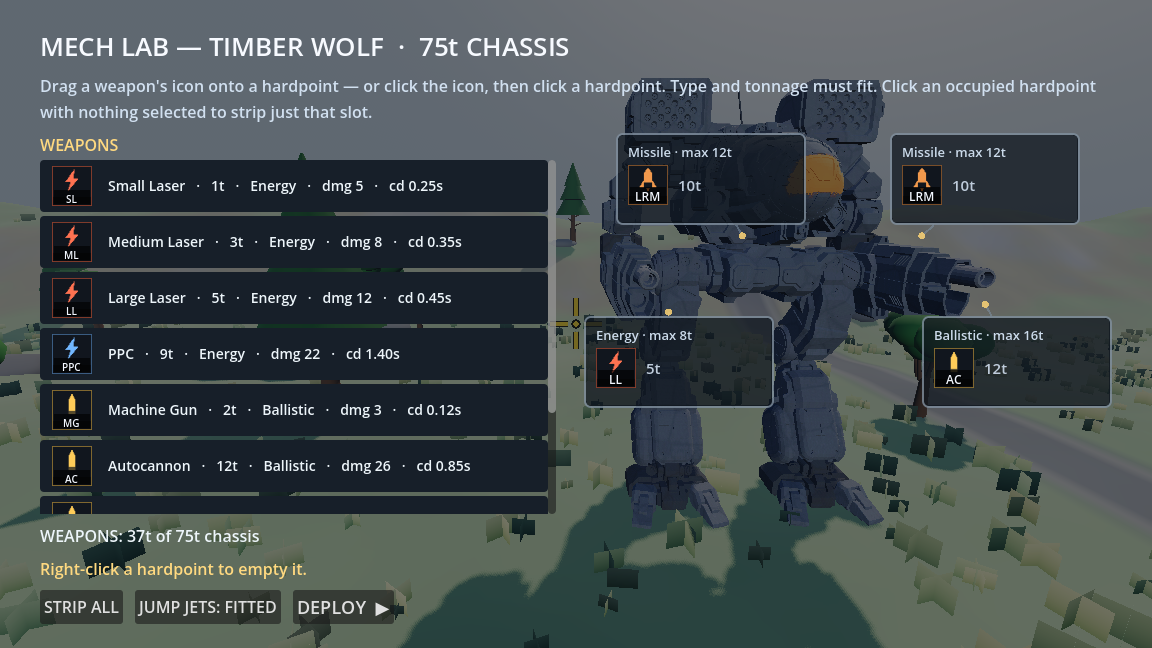
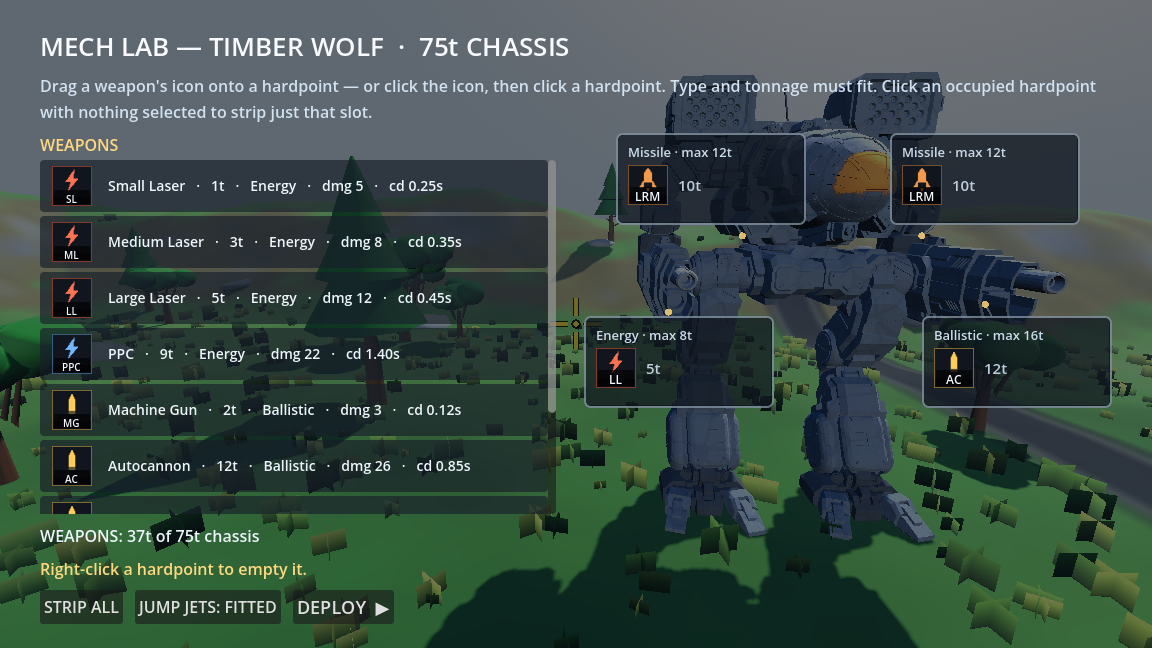
lab: mech further right + semi-transparent weapon list (owner)
Showroom pan 0.38 -> 0.46 rad, and the catalog row backdrop drops to 0.66 alpha, matching the translucent slot panels — the scene reads through the whole lab now. Verified in a captured frame (proof/lab.png).

diff --git a/godot/MechDuel.cs b/godot/MechDuel.cs
@@ -4535,7 +4535,7 @@ public partial class MechDuel : Node3D
             var viewDir = fwd.Rotated(Vector3.Up, 2.72f + sway); // mostly in front of the mech, slightly to its side
             _cam.GlobalPosition = center + viewDir * 14.5f + Vector3.Up * 3.4f;
             _cam.LookAt(center, Vector3.Up);
-            _cam.RotateY(0.38f); // pan in camera space: mech into the paperdoll area, centered under its slot panels (owner)
+            _cam.RotateY(0.46f); // pan in camera space: mech right, centered under its slot panels (owner, adjusted twice at his word)
             _labLight.GlobalRotation = _cam.GlobalRotation;
             return;
         }

diff --git a/godot/MechLab.cs b/godot/MechLab.cs
@@ -324,7 +324,7 @@ public partial class MechLab : Control
                 b.SetCornerRadiusAll(4);
                 return b;
             }
-            rowPanel.AddThemeStyleboxOverride("panel", RowBox(new Color(0.09f, 0.12f, 0.16f, 1f)));
+            rowPanel.AddThemeStyleboxOverride("panel", RowBox(new Color(0.09f, 0.12f, 0.16f, 0.66f))); // semi-transparent (owner): the scene shows through the weapon list
             var hb = new HBoxContainer();
             hb.AddThemeConstantOverride("separation", 16); // clear gap between tile and name (owner)
             rowPanel.AddChild(hb);
